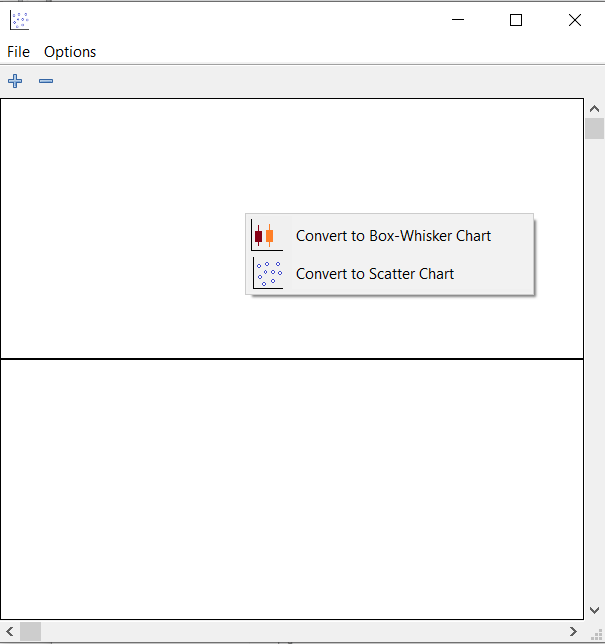
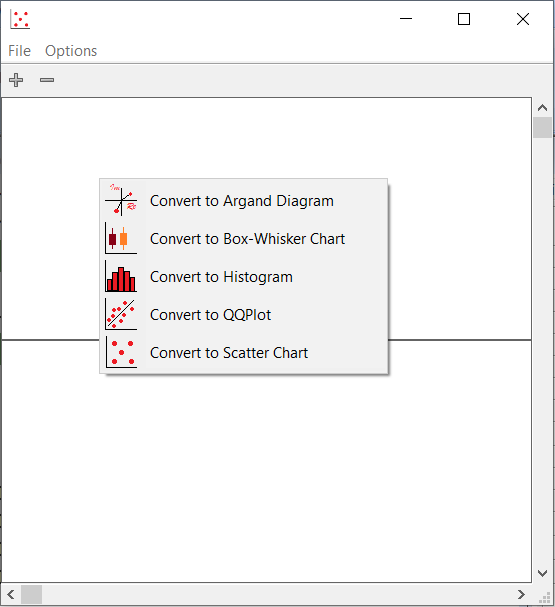
image and info updated

Changed region(s): [[0.0, 0.0, 1.0, 1.0], [0.1838, 0.2965, 0.245, 0.3558]]

diff --git a/manual/std/funcs/plot.layout.php b/manual/std/funcs/plot.layout.php
@@ -168,19 +168,31 @@
 <p>&nbsp;</p>
 
 
-<p>
-    It should be noted that, one can follow a potpourri of steps described above such that
+
+
+
+<p class="rightmargined">
+    <span style="color: red; font-size: x-large;">&#9432;</span> 
+    It is also possible to follow a potpourri of steps described above such that
     start with commands and continue with clicks or vice versa.
 </p>
 
 
 
 
+
 <p>&nbsp;</p>
 <p>&nbsp;</p>
 
+
+
+
 <div class="RelatedLinks">
+    <a href="argand.php">argand</a>
     <a href="boxplot.php">boxplot</a>
+    <a href="histogram.php">histogram</a>
+    <a href="qqnorm.php">qqnorm</a>
+    <a href="qqplot.php">qqplot</a>
     <a href="scatter.php">scatter</a>
 </div>
 
